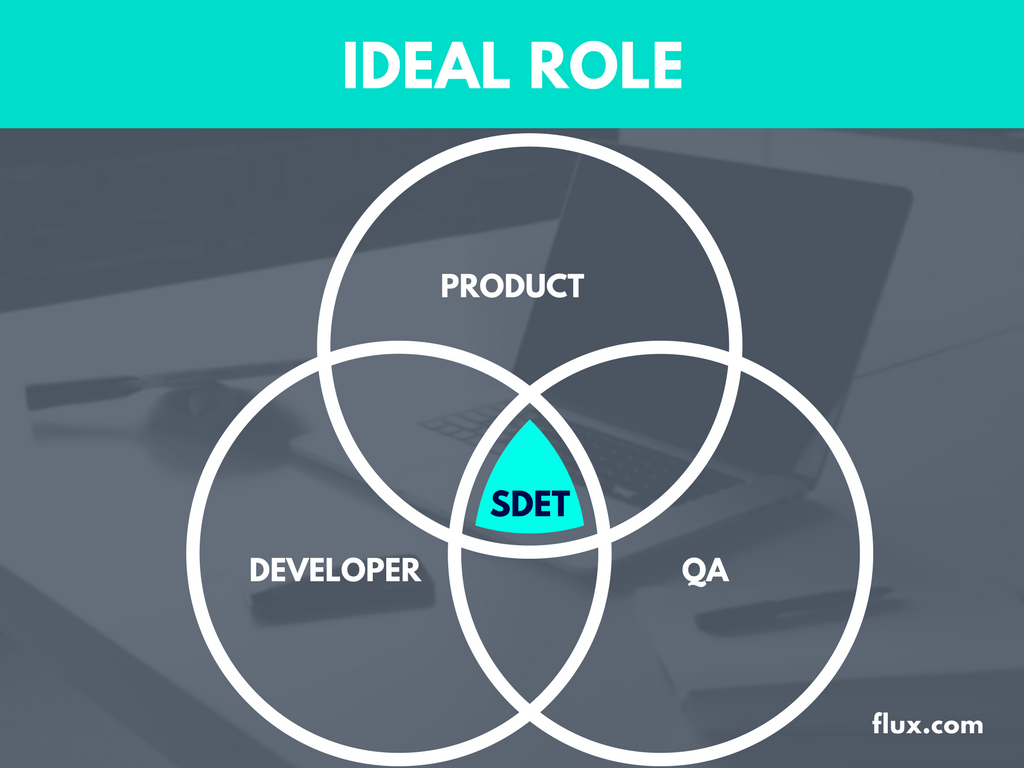
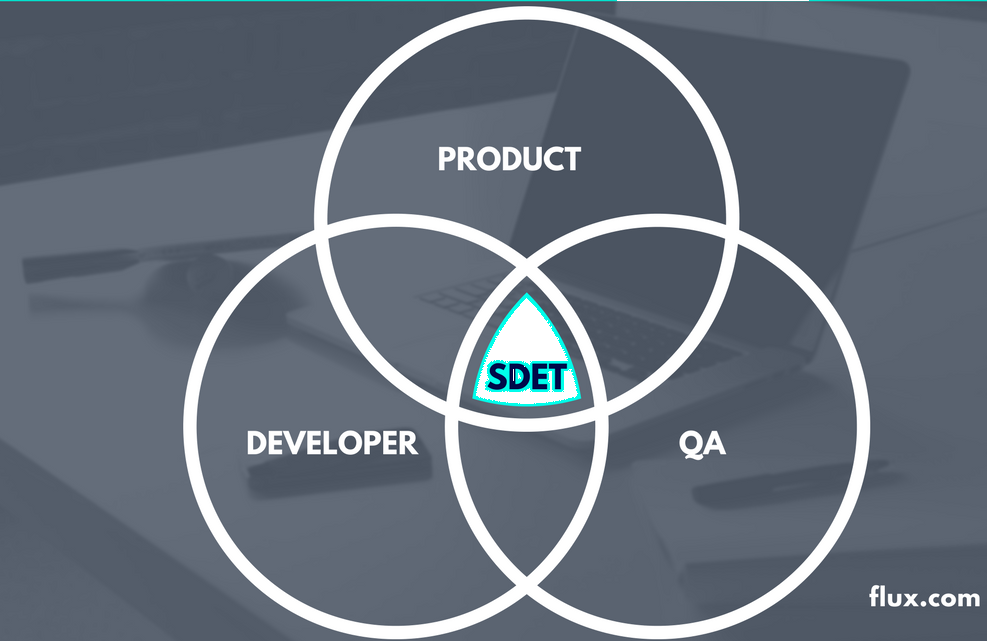
menu bar position edit

diff --git a/index.html b/index.html
@@ -162,10 +162,6 @@
    					<strong>Birth Date:</strong>
    					<span>June 2, 1994</span>
    				</li>
-   				<li>
-   					<strong>Job:</strong>
-   					<span>Looking for SDET role</span>
-   				</li>
 				<li>
    					<strong>Nationality:</strong>
    					<span>Indian</span>
@@ -173,6 +169,11 @@
    				<li>
    					<strong>Website:</strong>
    					<span>devsh4.github.io</span>
+   				</li>			
+				<li>
+   					<strong>Job:</strong>
+   					<span>Looking for -></span><br>
+					<img src="images/sdet_venn.png" width="300" height="200"></img>
    				</li>
    				
 
@@ -204,7 +205,7 @@
 				   	<strong>Python</strong>
 				   </li>
 				   <li>
-				   	<div class="progress percent70"><span>70%</span></div>
+				   	<div class="progress percent70"><span>75%</span></div>
 				   	<strong>C#</strong>
 				   </li>
 				   <li>

diff --git a/css/main.css b/css/main.css
@@ -1105,7 +1105,7 @@ header .top-bar {
 	min-width: 220px;
 	min-height: 66px;
 	position: absolute;
-	left: 90px;
+	left: 20px;
 	top: 0;
 }
 header .logo {

diff --git a/inc/sendEmail.php b/inc/sendEmail.php
@@ -29,7 +29,7 @@ if($_POST) {
 
    // Set Message
    $message .= "Email from: " . $name . "<br />";
-	$message .= "Email address: " . $email . "<br />";
+   $message .= "Email address: " . $email . "<br />";
    $message .= "Message: <br />";
    $message .= $contact_message;
    $message .= "<br /> ----- <br /> This email was sent from your site's contact form. <br />";
